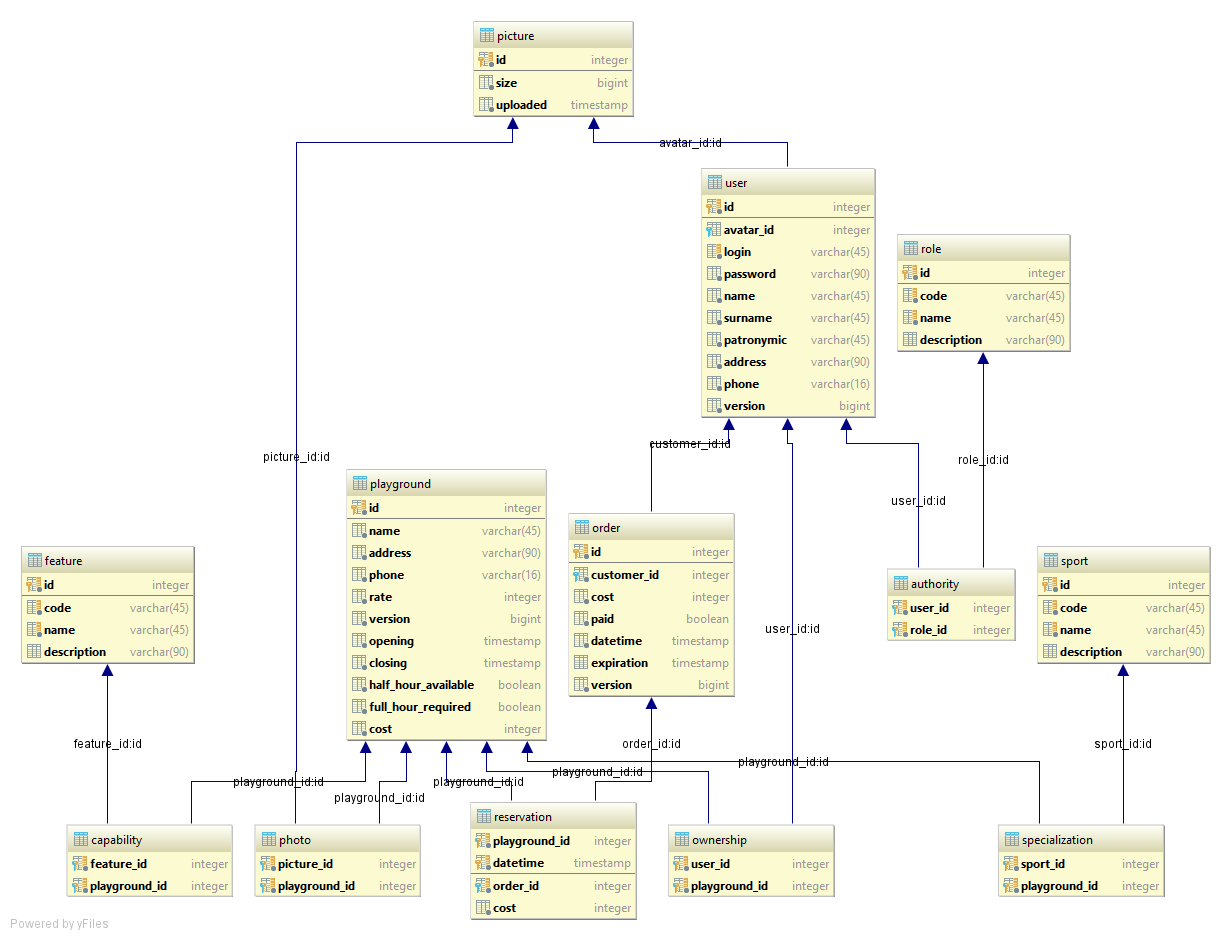
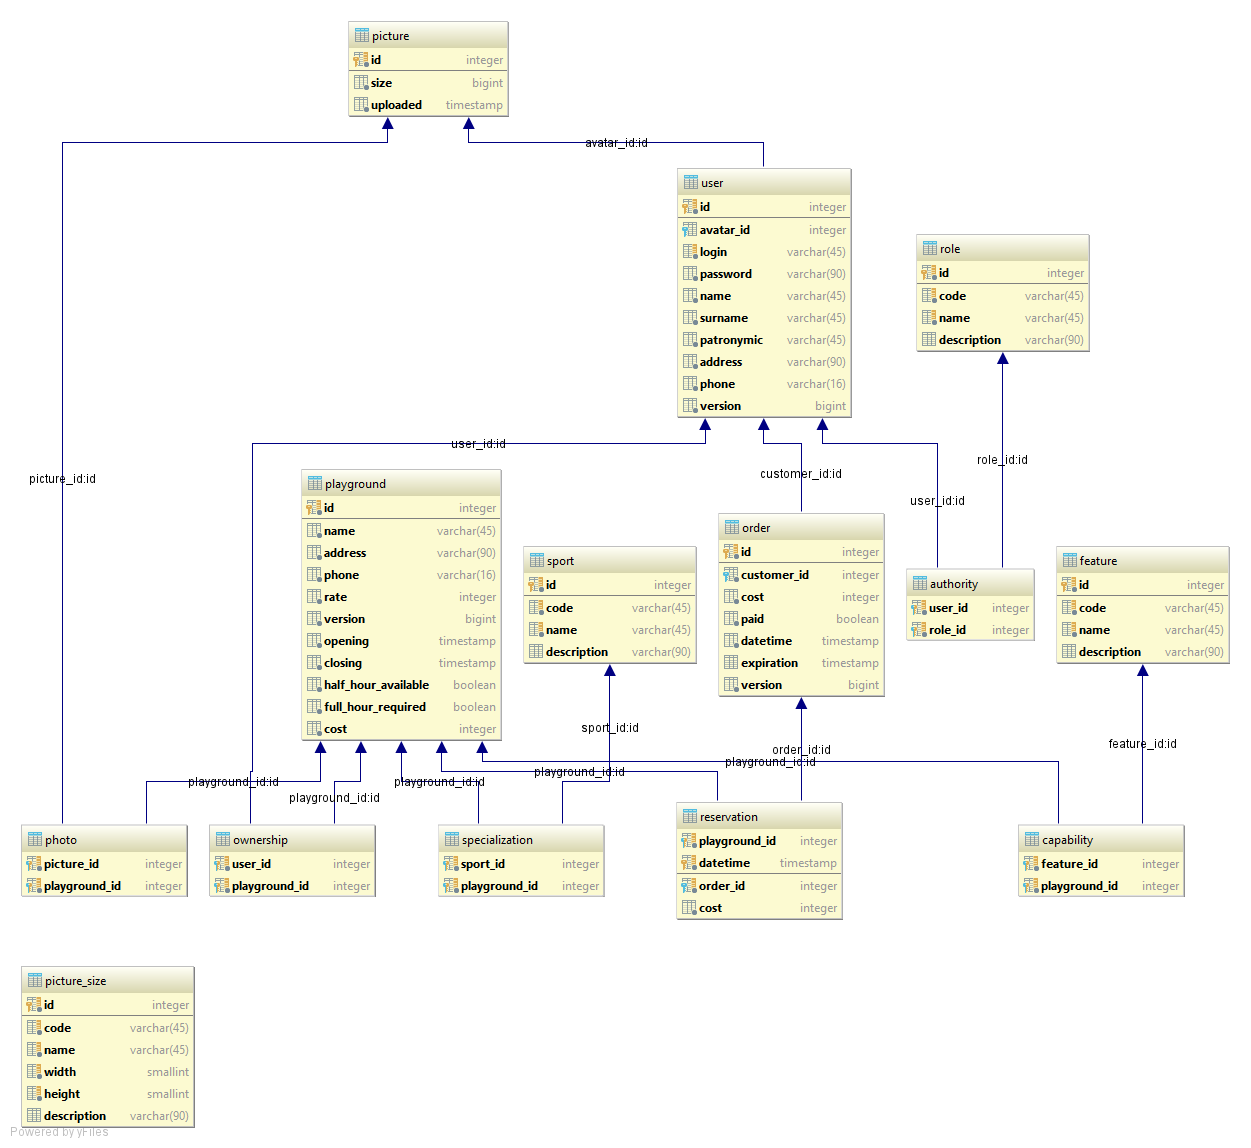
picture resize fix, size info add to database

diff --git a/src/main/java/ru/vldf/sportsportal/service/PictureService.java b/src/main/java/ru/vldf/sportsportal/service/PictureService.java
@@ -1,6 +1,5 @@
 package ru.vldf.sportsportal.service;
 
-import com.fasterxml.jackson.annotation.JsonValue;
 import org.imgscalr.Scalr;
 import org.springframework.beans.factory.annotation.Autowired;
 import org.springframework.beans.factory.annotation.Value;
@@ -171,6 +170,7 @@ public class PictureService extends AbstractMessageService {
 
         // calculate resize mode
         Scalr.Mode mode;
+        Scalr.Method quality = Scalr.Method.ULTRA_QUALITY;
         double factor = ((double) img.getWidth()) / ((double) img.getHeight());
         if (factor < requestedFactor) {
             mode = Scalr.Mode.FIT_TO_WIDTH;
@@ -181,7 +181,7 @@ public class PictureService extends AbstractMessageService {
         }
 
         // resize
-        img = Scalr.resize(img, Scalr.Method.QUALITY, mode, newWidth, newHeight);
+        img = Scalr.resize(img, quality, mode, newWidth, newHeight);
 
         // calculate crop params
         int xStart, yStart;
@@ -223,17 +223,16 @@ public class PictureService extends AbstractMessageService {
     }
 
     public enum PictureSize {
-        SMALL("sm", 250, 125),
-        MIDDLE("md", 500, 250),
-        LARGE("lg", 1000, 500);
+        SMALL("sm", 500, 250),
+        MIDDLE("md", 800, 600),
+        LARGE("lg", 1280, 1024);
 
-        @JsonValue
         private final String value;
         private final int width;
         private final int height;
         private final double factor;
 
-        PictureSize(@NotNull String value, int height, int width) {
+        PictureSize(@NotNull String value, int width, int height) {
             this.value = value;
             this.width = width;
             this.height = height;
